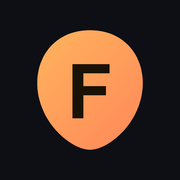
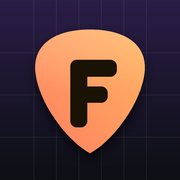
Nouvelle icône : médiator en dégradé sur fond de manche, script de génération

diff --git a/public/sw.js b/public/sw.js
@@ -1,4 +1,4 @@
-const CACHE = 'fretly-v4';
+const CACHE = 'fretly-v5';
 const SHELL = [
   './', 'index.html', 'manifest.webmanifest', 'icon.svg', 'icon-192.png', 'icon-512.png', 'apple-touch-icon.png', 'css/style.css',
   'js/app.js', 'js/music.js', 'js/chords.js', 'js/chordpro.js', 'js/pitch.js', 'js/diagram.js',

diff --git a/scripts/make-icons.py b/scripts/make-icons.py
@@ -1,0 +1,76 @@
+"""Génère les icônes PNG de Fretly (même dessin que public/icon.svg). Usage : python scripts/make-icons.py
+Nécessite Pillow. Sorties : public/icon-512.png, icon-192.png, apple-touch-icon.png."""
+from PIL import Image, ImageChops, ImageDraw, ImageFilter, ImageOps
+
+S = 3            # sur-échantillonnage pour des bords lisses
+W = 512 * S
+
+
+def bez(p0, p1, p2, p3, n=48):
+    out = []
+    for i in range(1, n + 1):
+        t = i / n
+        out.append(tuple((1 - t) ** 3 * a + 3 * (1 - t) ** 2 * t * b + 3 * (1 - t) * t ** 2 * c + t ** 3 * d
+                         for a, b, c, d in zip(p0, p1, p2, p3)))
+    return out
+
+
+# Médiator : contour symétrique, large en haut, pointe arrondie en bas
+PICK = [(256, 84)]
+PICK += bez((256, 84), (360, 84), (424, 130), (410, 214))
+PICK += bez((410, 214), (398, 296), (322, 400), (256, 436))
+PICK += bez((256, 436), (190, 400), (114, 296), (102, 214))
+PICK += bez((102, 214), (88, 130), (152, 84), (256, 84))
+
+
+def gradient(c1, c2, vertical=True, diagonal=False):
+    g = Image.linear_gradient('L').resize((W, W))          # noir (haut) -> blanc (bas)
+    if diagonal:
+        g = ImageChops.add(g.resize((W, W)), g.rotate(90).transpose(Image.FLIP_LEFT_RIGHT), scale=2)
+    elif not vertical:
+        g = g.rotate(90)
+    return ImageOps.colorize(g, c1, c2)
+
+
+def mask_of(points, dy=0):
+    m = Image.new('L', (W, W), 0)
+    ImageDraw.Draw(m).polygon([(x * S, (y + dy) * S) for x, y in points], fill=255)
+    return m
+
+
+def render():
+    img = gradient('#2a1d47', '#0d0f14').convert('RGB')
+
+    # Manche suggéré : cordes et frettes très discrètes
+    d = ImageDraw.Draw(img, 'RGBA')
+    for i in range(6):
+        x = (96 + i * 64) * S
+        d.line([(x, 0), (x, W)], fill=(255, 255, 255, 20), width=2 * S)
+    for y in (150, 270, 390):
+        d.line([(0, y * S), (W, y * S)], fill=(255, 255, 255, 14), width=3 * S)
+
+    # Ombre portée du médiator
+    shadow = mask_of(PICK, dy=18).filter(ImageFilter.GaussianBlur(16 * S)).point(lambda v: int(v * 0.6))
+    img.paste(Image.new('RGB', (W, W), '#000000'), (0, 0), shadow)
+
+    # Médiator en dégradé ambre -> corail
+    pick = mask_of(PICK)
+    img.paste(gradient('#ffc760', '#ff6f61', diagonal=True).convert('RGB'), (0, 0), pick)
+
+    # Reflet doux en haut
+    fade = Image.linear_gradient('L').transpose(Image.FLIP_TOP_BOTTOM).resize((W, W))   # blanc en haut
+    fade = fade.point(lambda v: max(0, int((v - 120) * 1.4)) if v > 120 else 0).point(lambda v: int(v * 0.33))
+    img.paste(Image.new('RGB', (W, W), '#ffffff'), (0, 0), ImageChops.multiply(fade, pick))
+
+    # Lettre F en barres arrondies
+    d = ImageDraw.Draw(img)
+    ink = '#1a1204'
+    for x0, y0, x1, y1 in ((200, 170, 248, 362), (200, 170, 332, 218), (200, 246, 306, 292)):
+        d.rounded_rectangle([x0 * S, y0 * S, x1 * S, y1 * S], radius=18 * S, fill=ink)
+    return img
+
+
+big = render()
+for name, size in (('icon-512.png', 512), ('icon-192.png', 192), ('apple-touch-icon.png', 180)):
+    big.resize((size, size), Image.LANCZOS).save(f'public/{name}', optimize=True)
+print('ok')

diff --git a/CLAUDE.md b/CLAUDE.md
@@ -35,7 +35,7 @@ Chanson : `{id, title, artist, key, capo, body (ChordPro), transpose, speed, upd
 ## Commandes
 - Lancer : `npm install` puis `npm start` (http://localhost:8080 ; le micro exige HTTPS ou localhost)
 - Tests : `npm test`
-- Déploiement : dossier `apps/fretly` de `Gatomlo/node-gateway` (route `/fretly`) ; copier sans `node_modules`, `npm install` à la racine de la passerelle, redémarrer. HTTPS fourni par l'hébergeur (Infomaniak). Si `public/sw.js` ou sa liste `SHELL` change, incrémenter `CACHE`. Icônes PNG générées avec Pillow à partir de `icon.svg` (icon-192/512, apple-touch-icon).
+- Déploiement : dossier `apps/fretly` de `Gatomlo/node-gateway` (route `/fretly`) ; copier sans `node_modules`, `npm install` à la racine de la passerelle, redémarrer. HTTPS fourni par l'hébergeur (Infomaniak). Si `public/sw.js` ou sa liste `SHELL` change, incrémenter `CACHE`. Icônes : `public/icon.svg` + PNG (icon-192/512, apple-touch-icon) générés par `python scripts/make-icons.py` (Pillow, même dessin que le SVG : à modifier ensemble).
 
 ## Méthode de travail
 Tests d'abord sur les modules purs, puis vérification dans le navigateur. Pistes : Web MIDI/gamepad pour pédales, tuning ukulele/basse, icônes PNG, IndexedDB si gros carnets.
